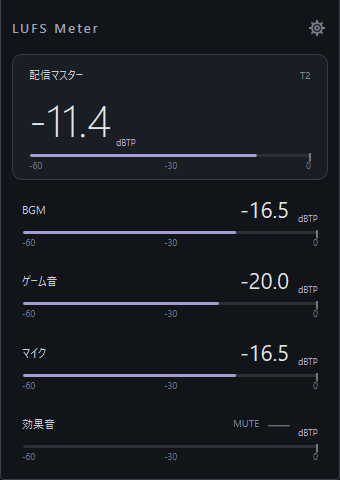
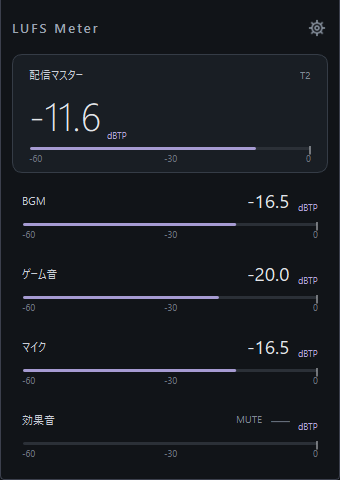
Reduce True Peak number size for clearer visual hierarchy

diff --git a/src/dock.cpp b/src/dock.cpp
@@ -148,6 +148,7 @@ public:
       const QString color = !finite ? "#646c79" : level == TargetLevel::Over || level == TargetLevel::Near ? accent(level).name() : "#e2e5e9";
       const bool both = loudnessNumber_ && peakNumber_;
       int pixels = vertical_ ? (both ? 18 : master_ ? 28 : 20) : master_ ? (both ? 32 : 44) : 22;
+      if (peak) pixels = static_cast<int>(std::lround(pixels * 0.875));
       QFont font = number->font(); font.setPixelSize(pixels);
       const int availableWidth = number->width() - 2;
       while (pixels > 6 && availableWidth > 20 && QFontMetricsF(font).horizontalAdvance(number->text()) > availableWidth) font.setPixelSize(--pixels);

diff --git a/docs/RELEASE_NOTES.md b/docs/RELEASE_NOTES.md
@@ -1,9 +1,10 @@
-# LUFS Meter 0.2.0
+# LUFS Meter 0.2.1
 
-ソース別と配信マスターにTrue Peak表示を追加しました。Windows x64 / OBS Studio 32向けです。
+True Peakの数値をLUFSより少し小さくして、見分けやすくしました。Windows x64 / OBS Studio 32向けです。
 
 ## 変更点
 
+- True Peakの数値をLUFSの約87.5%のサイズに調整しました。横・縦表示の両方に適用します。
 - 設定の表示項目で **LUFSのみ / LUFS＋True Peak / True Peakのみ** を選択できます。
 - 横メーターは上下、縦メーターは左右に配置。LUFSは太い青緑、True Peakは細い青紫で区別できます。
 - 表示設定は次回起動時にも保存します。

diff --git a/CHANGELOG.md b/CHANGELOG.md
@@ -1,5 +1,9 @@
 # Changelog
 
+## 0.2.1 — 2026-10-15
+
+- Make True Peak numbers about 12.5% smaller than LUFS in both orientations.
+
 ## 0.2.0 — 2026-10-15
 
 - Add per-source and stream-master True Peak metering in dBTP with libebur128.

diff --git a/README_JA.md b/README_JA.md
@@ -1,4 +1,4 @@
-# LUFS Meter 0.2.0
+# LUFS Meter 0.2.1
 
 LAAを必要としない、Windows x64の独立OBSプラグインです。
 配信マスターを上段、選んだ音声ソースを下段に表示します。
